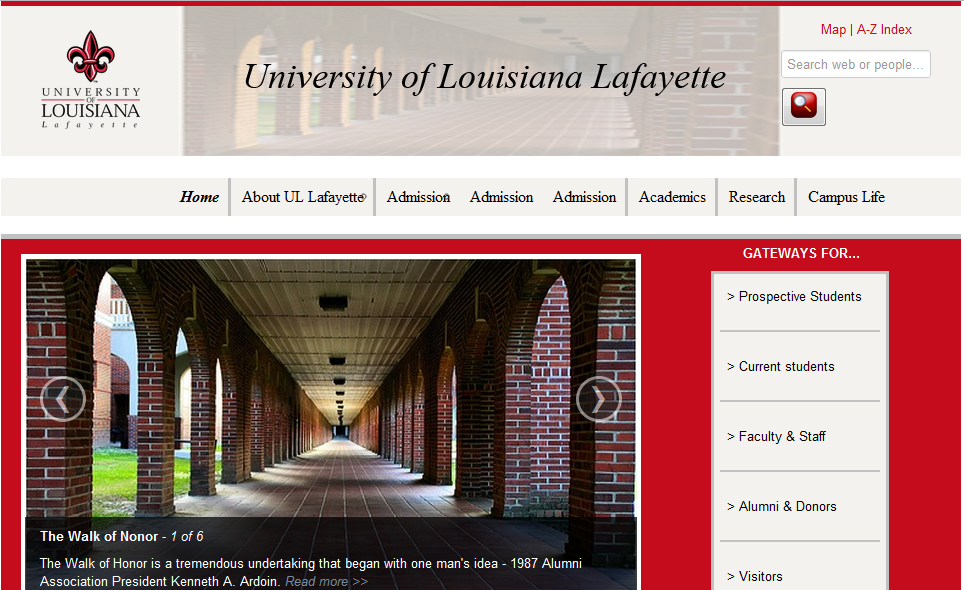
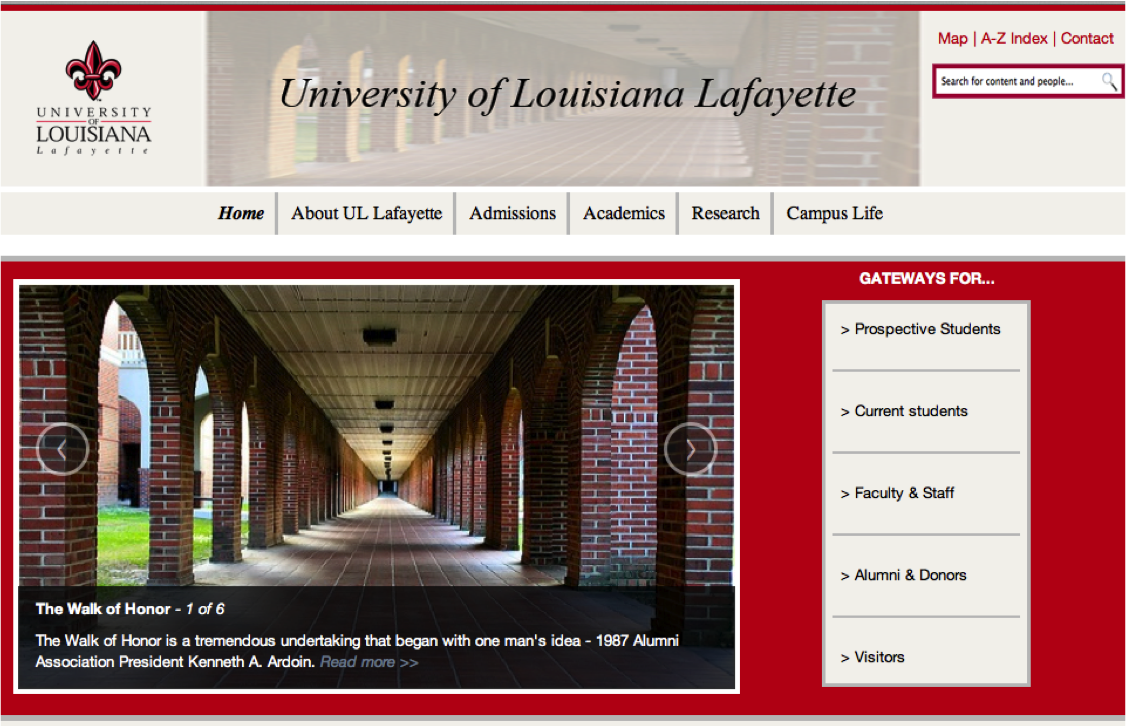
laura

diff --git a/redesign.html b/redesign.html
@@ -2,9 +2,9 @@
 <html lang="en">
   <head>
     <meta charset="utf-8">
-    <title>A Generic Page</title>
-    <meta name="description" content="something good should go here">
-    <meta name="author" content="your name should go here">
+    <title>Redesign</title>
+    <meta name="description" content="Redesign">
+    <meta name="author" content="Laura, Rachel, Ren">
 
     <!-- Le HTML5 shim, for IE6-8 support of HTML elements -->
     <!--[if lt IE 9]>
@@ -45,11 +45,11 @@
 
                 <ul id="navigation">
                     <li><a href="indexx.html">Home</a></li>
-                    <li><a href="users.html"><i><b>Users</b></i></a></li>
+                    <li><a href="users.html">Users</a></li>
                     <li><a href="competitiveanalysis.html">Competitive Analysis</a>
                     <li><a href="hardestdecisions.html">Hardest Decisions</a></li>
-                    <li><a href="redesign.html">Redesign</a></li>
-                    <li><a href="">Contact Us</a></li>
+                    <li><a href="redesign.html"><i><b>Redesign</b></i></a></li>
+                    <li><a href="redesign.html#contact">Contact Us</a></li>
                 </ul>
             </div>
         </div>
@@ -70,20 +70,25 @@
         
         <div class="row">
             <div class="span12 background">
-                <p id="bluecolor"><b>Homepage</b></p>
-                <h2>Current Design</h2>
-                <img src="images/scrnshots/ULhome.png" />
+                <p id="bluecolor"><b>Current Homepage Design</b></p>
+                </br>
+                <img id="imageplace" src="images/scrnshots/ULhome.png" />
 
-                <h2>Our Design</h2>
-                <img src="images/scrnshots/newULhome.png">
+            </div>
+        </div>
+        <div class="row">
+            <div class="span12 background">
+                <p id="bluecolor"><b>Our Redesign</b></p>
+                </br>
+                <img id="imageplace" src="images/scrnshots/newULhome.png" width=780>
 
             </div>
         </div>
 
         <div class="row">
-            <div class="span12 background">
+            <div class="span12 background" id="contact">
                 <p id="bluecolor"><b>Contact Us</b></p>
-
+                </br>
                 <p id="center"><b>Laura Jourdain:</b> ljourdai[at]ucsd.edu | <b>Rachel Cusing:</b> rcusing[at]ucsd.edu | <b>Ren Nakanote:</b> rnakanote[at]ucsd.edu</p>
 
             </div><!--end contact-->

diff --git a/users.html b/users.html
@@ -49,7 +49,7 @@
             <ul id="navigation">
                 <li><a href="indexx.html">Home</a></li>
                 <li><a href="users.html"><i><b>Users</b></i></a></li>
-                <li><a href="competitiveanalysisOG.html">Competitive Analysis</a></li>
+                <li><a href="competitiveanalysis.html">Competitive Analysis</a></li>
                 <li><a href="hardestDecisions.html">Hardest Decisions</a></li>
                 <li><a href="redesign.html">Redesign</a></li>
                 <li><a href="#contact">Contact Us</a></li>

diff --git a/hardestdecisions.html b/hardestdecisions.html
@@ -108,8 +108,11 @@
           <p id="placement1">For the second level page we also copied the layout/design of Bordeaux University. 
            We realized 5 wireframes, corresponding to our main navigational labels, for the second level page. We used the axure software.</p>
       </div>
+        
       </div>
       </br>
+       <a href="hardestdecisions.html"><p style="text-align:right;margin-top:0px;padding-top:0px">[Back to top]</p></a>
+    
       <div class="row">
         <div class="span12">
         

diff --git a/stylesheets/main.css b/stylesheets/main.css
@@ -173,6 +173,10 @@
     color:#C1C1C1;
 }
 
+#imageplace{
+    margin-left: 80px;
+}
+
 #justify{
     text-align: justify;
 }
